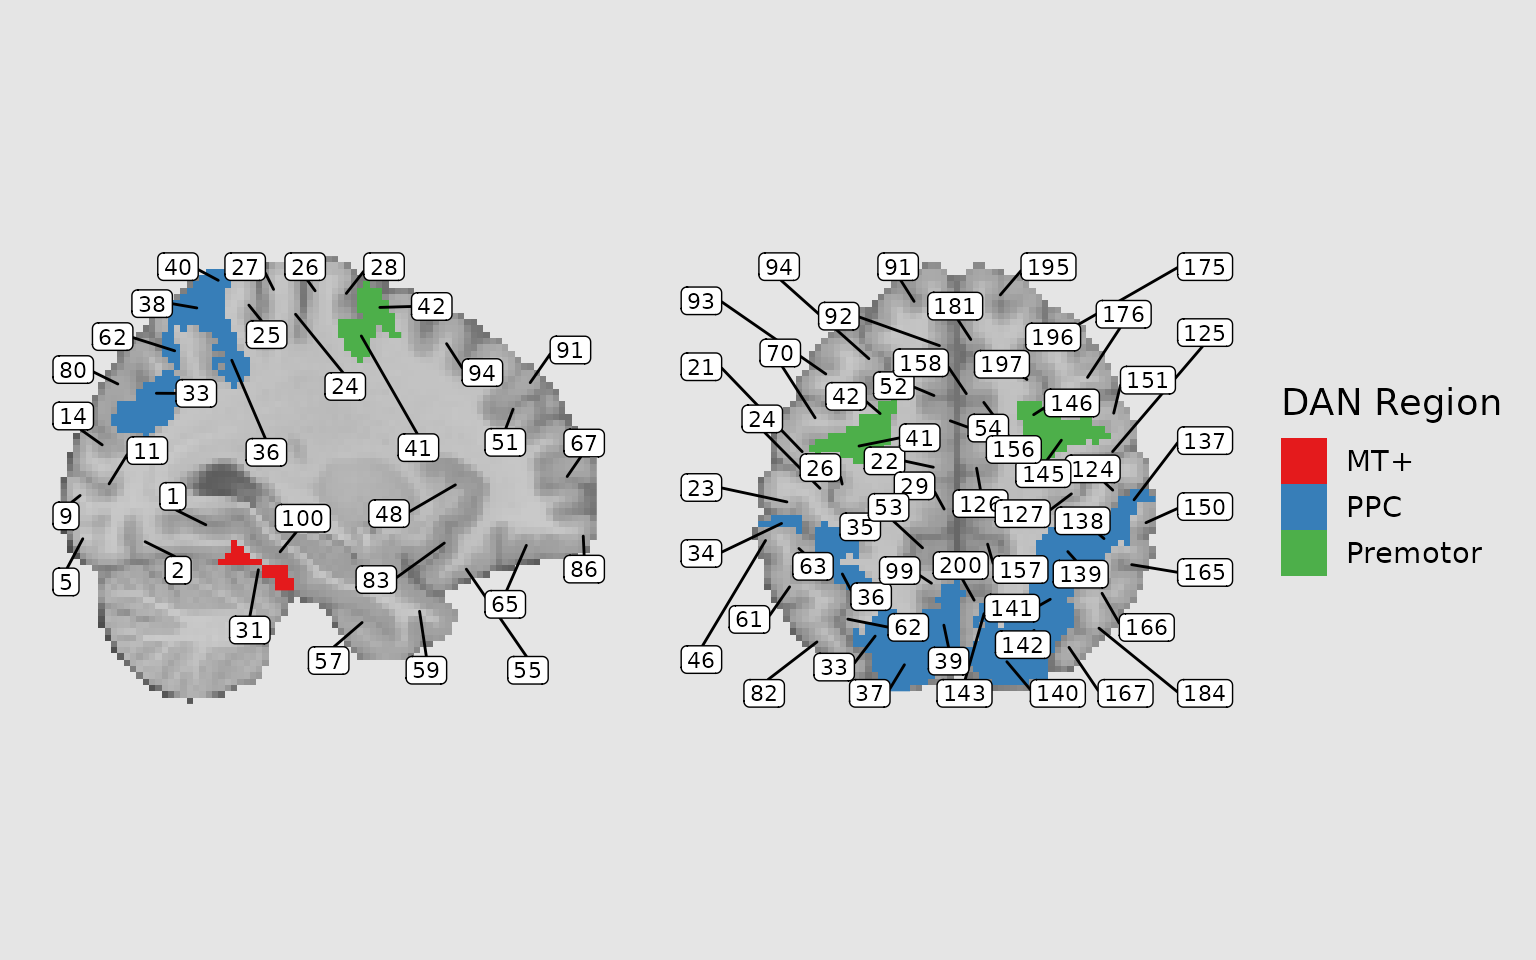
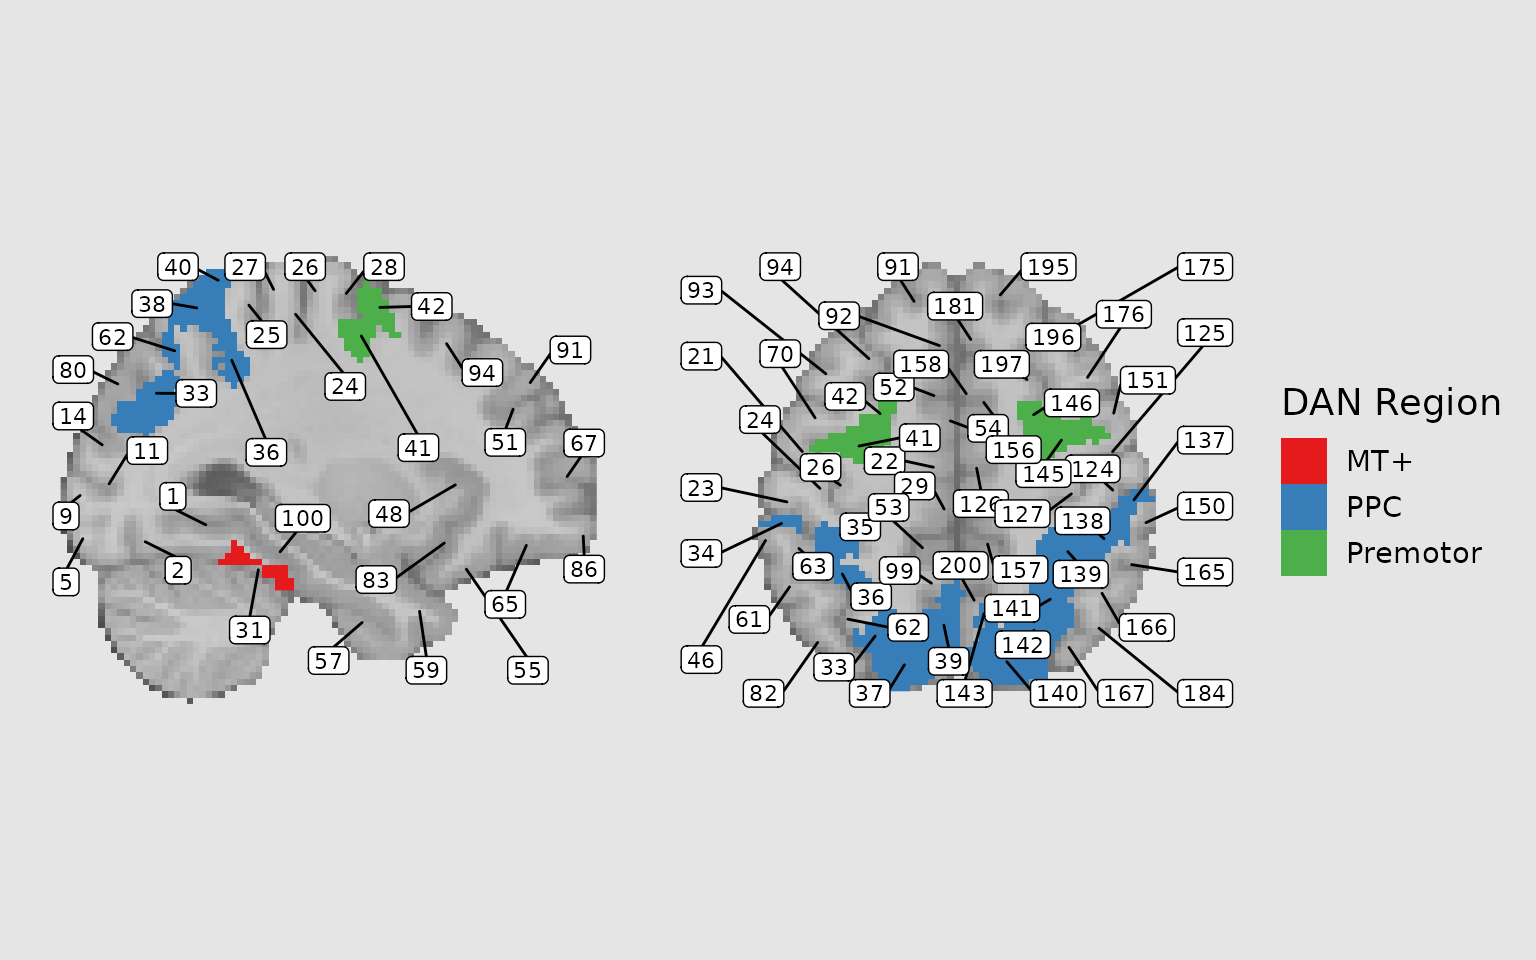
Deploying to gh-pages from @ michaelhallquist/ggbrain@11b70d5815d2ff8a2ca4fa8ba82232f5d663a17d 🚀

diff --git a/news/index.html b/news/index.html
@@ -66,6 +66,7 @@
 <li>bugfix: correct row/column swap in the eastward check of count_neighbors.</li>
 <li>bugfix: switched <code>flood_fill</code> to stack-based approach to avoid overflow due to recursion.</li>
 <li>bugfix: Correct invalid 1-based indexing assumption in <code>nearest_pts</code> used for filling holes.</li>
+<li>bugfix: Refactor <code>nearest_pts</code> to exclude missing, non-finite, ignored-zero, and target pixels before selecting neighbors. This prevents invalid values from entering <code>nn_impute</code> when fewer than the requested number of valid neighbors are available and improves performance, especially for sparse images.</li>
 <li>bugfix: Use bisided scale for all slices when <code>unify=TRUE</code> but only some slices have positive and negative values</li>
 <li>bugfix: Use square data for outlines to avoid warnings about misalignment</li>
 <li>bugfix: Always apply filter expressions passed with <code><a href="../reference/images.html">images()</a></code>, not just for labeled images</li>

diff --git a/news/index.md b/news/index.md
@@ -53,6 +53,11 @@
   overflow due to recursion.
 - bugfix: Correct invalid 1-based indexing assumption in `nearest_pts`
   used for filling holes.
+- bugfix: Refactor `nearest_pts` to exclude missing, non-finite,
+  ignored-zero, and target pixels before selecting neighbors. This
+  prevents invalid values from entering `nn_impute` when fewer than the
+  requested number of valid neighbors are available and improves
+  performance, especially for sparse images.
 - bugfix: Use bisided scale for all slices when `unify=TRUE` but only
   some slices have positive and negative values
 - bugfix: Use square data for outlines to avoid warnings about